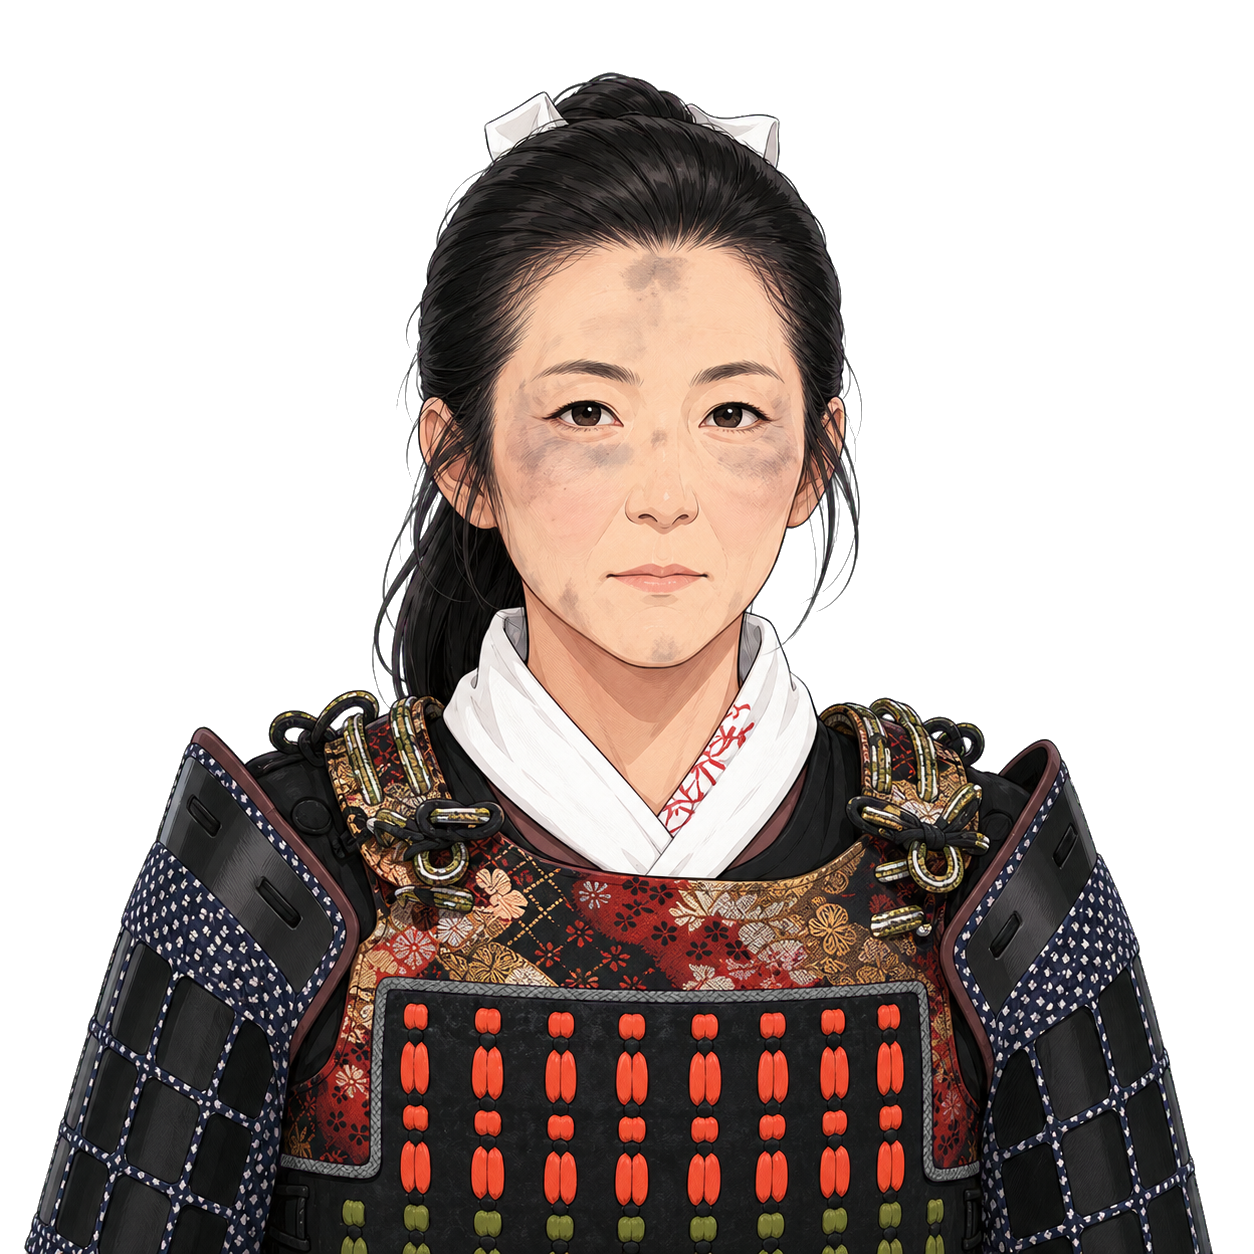
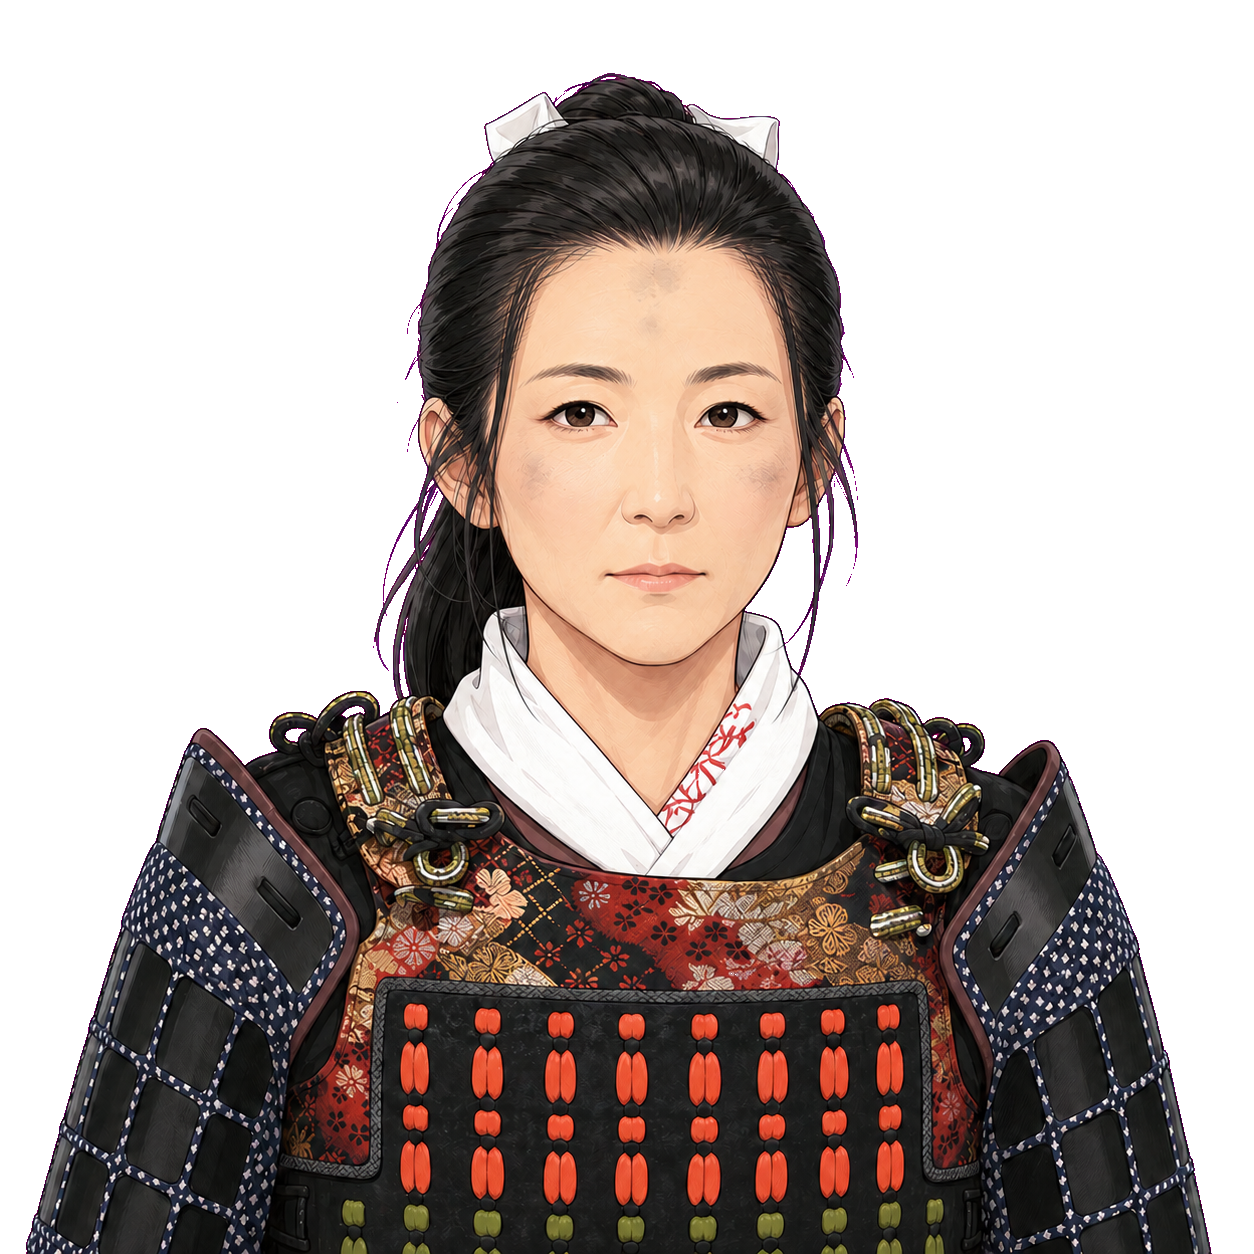
feat: いけの表情と甲冑ビジュアルを調整

diff --git a/prototype/game.js b/prototype/game.js
@@ -1434,6 +1434,8 @@
   const FACE_IMG = {};
   // オダと同じ制作テンプレートを使う主要人物。将来の表情画像も同じ肩上クロップで表示する。
   const GENERATED_FACE_KINDS = { oda: true, ike: true, michi: true, kancho: true, sakamoto: true, naiki: true, kurono: true };
+  const IKE_ASSET_VERSION = '?v=20260712i2';
+  function characterAssetVersion(kind) { return kind === 'ike' ? IKE_ASSET_VERSION : ''; }
   function getFaceImg(kind, face) {
     var cacheKey = kind + (face ? ':' + face : '');
     if (FACE_IMG[cacheKey] !== undefined) return FACE_IMG[cacheKey];
@@ -1444,9 +1446,9 @@
         FACE_IMG[cacheKey] = getFaceImg(kind, null);
       } else FACE_IMG[cacheKey] = null;
     };
-    img.src = face
+    img.src = (face
       ? 'assets/face/' + kind + '_' + face + '.png'
-      : 'assets/face/' + kind + '.png';
+      : 'assets/face/' + kind + '.png') + characterAssetVersion(kind);
     FACE_IMG[cacheKey] = img;
     return img;
   }
@@ -1592,7 +1594,7 @@
   // 敵バトル絵（assets/enemy/<kind>_battle.png を置くと自動で差し替わる。無い間はもののけ描画）
   const ENEMY_IMG = {};
   // いけの腕試しは ENEMY_DEFS 外のイベント戦なので明示的に読み込む。
-  loadImg('assets/enemy/ike_battle.png', function (i) { ENEMY_IMG.ike = i; });
+  loadImg('assets/enemy/ike_battle.png' + IKE_ASSET_VERSION, function (i) { ENEMY_IMG.ike = i; });
   const MONSTER_KINDS = {};
   Object.keys(ENEMY_DEFS).forEach(function (id) {
     var kind = ENEMY_DEFS[id].kind;
@@ -1669,14 +1671,14 @@
     var img = new Image();
     img.onload = function () { HD_SPRITE[k] = img; sheetContentBox(k, img); };
     img.onerror = function () {};
-    img.src = 'assets/sprites/' + k + '_walk.png';
+    img.src = 'assets/sprites/' + k + '_walk.png' + characterAssetVersion(k);
   });
   // オダといけは専用の4方向走行シートを使用。未読込なら drawActor が歩行シートへ戻る。
   ['oda', 'ike'].forEach(function (k) {
     var img = new Image();
     img.onload = function () { HD_RUN_SPRITE[k] = img; sheetContentBox(k, img, HD_RUN_SPRITE_BOX); };
     img.onerror = function () {};
-    img.src = 'assets/sprites/' + k + '_run.png';
+    img.src = 'assets/sprites/' + k + '_run.png' + characterAssetVersion(k);
   });
   // 地面テクスチャ → 敷き詰めパターン（元画像を 8×8 タイル分に縮小してリピート。元ファイルは縮小保存しない）
   const HD_PAT = {};

diff --git a/prototype/index.html b/prototype/index.html
@@ -8,7 +8,7 @@
 <link rel="apple-touch-icon" href="apple-touch-icon.png">
 <link rel="manifest" href="manifest.json">
 <meta name="theme-color" content="#1a1b2e">
-<link rel="stylesheet" href="style.css?v=20260711p29">
+<link rel="stylesheet" href="style.css?v=20260712p30">
 </head>
 <body>
 <div id="app">
@@ -33,8 +33,8 @@
     </div>
   </div>
 </div>
-<script src="dialogue.js?v=20260711p29"></script>
-<script src="maps.js?v=20260711p29"></script>
-<script src="game.js?v=20260711p29"></script>
+<script src="dialogue.js?v=20260712p30"></script>
+<script src="maps.js?v=20260712p30"></script>
+<script src="game.js?v=20260712p30"></script>
 </body>
 </html>

diff --git a/docs/asset_prompts.md b/docs/asset_prompts.md
@@ -187,7 +187,7 @@ ChatGPT の画像生成に、そのまま貼り付けて使うプロンプト集
 ## キャラ別指定（上のテンプレートに貼り込む）
 
 - **オダ**（記念館職員）: 黒髪を低い位置で結び、丸みのある黒縁眼鏡。青白ストライプのゆったりしたシャツ、青いネックストラップと白い名札、ベージュのワイドパンツ。ヘッドセットマイクとエプロンは付けない。真面目で一生懸命な雰囲気。ベース絵のポーズは紺の資料ファイルを胸に抱えて前を見つめる
-- **いけ**（池田輝政）: **写真の役者の見たまま**の顔立ち、年齢感、体格、髪型を保つ。黒髪を後ろで結び白い髪飾り、頬の舞台メイクの線。舞台写真どおりの黒を基調とした具足、赤・緑・白の威し、胸元の金襴、白い襟元と腰帯、黒い袴・脚絆。ヘッドセットマイクは外し、刀は差さず手にも持たせない。若い男性武者や汎用武将へ置き換えない。会話絵は `neutral / serious / angry / happy（大きな笑顔） / surprised` の5表情。歩行・走行・戦闘でも髪飾り、頬の線、白い腰帯を維持する
+- **いけ**（池田輝政）: **写真の役者の見たまま**の顔立ち、年齢感、体格、髪型を保つ。顔は正面の黒衣プロフィール写真を最優先とし、白衣写真は自然な笑顔の補助資料にする。大人の年齢感とやや縦長の卵形輪郭を保ち、澄んだ目、明るい肌、控えめな頬・唇の色で「少しだけ華」を足す。通常顔は微笑ませず、眉・目線・口元を引き締めた「静かに腹が据わっている」勇ましさを基準にする。黒髪を後ろで結び白い髪飾り、頬と額の舞台メイクは薄く残す。舞台写真どおりの黒を基調とした具足、赤・緑・白の威し、胸元の金襴、白い襟元と腰帯、黒い袴・脚絆。ヘッドセットマイクは外し、刀は差さず手にも持たせない。若い男性武者や汎用武将へ置き換えない。甲冑は板・威糸・布の接続を整理し、過剰な反復や微細ノイズ、光沢を避けて手描き感を優先する。会話絵は `neutral / serious / angry / happy / surprised` の5表情。歩行・走行・戦闘でも髪飾り、薄い頬の線、白い腰帯と少し勇ましい目線を維持する
 - **みち**（森長可）: 戦国の荒武者。深緑〜黒の陣羽織、たくましい体格。豪快で不敵な笑み。ベース絵のポーズは肩に大身槍「人間無骨」を担ぐ
 - **館長**: 歴史記念館の館長。ジャケット姿（写真の服装に寄せてよい）。穏やかで人の良い表情。ベース絵のポーズは展示資料を手に微笑む
 - **踊り子**: 白い着物に赤い帯、長い黒髪、金の扇。※顔ウィンドウと歩行ドットのみ生成

diff --git a/docs/CHARACTER_VISUAL_WORKFLOW.md b/docs/CHARACTER_VISUAL_WORKFLOW.md
@@ -261,6 +261,9 @@ python scripts/repack_sprite_sheet.py <透過前シート.png> \
 - 外すもの: ヘッドセットマイク。刀は差さず、手にも持たせない。
 - 会話5表情: `neutral`、大きく笑う `happy`、役柄らしい `angry`、張り詰めた `serious`、自然に目と口を開く `surprised`。
 - 必須納品: `ike_full.png`、`ike.png`（neutral互換）、上記5表情、`ike_walk.png`、`ike_run.png`、`ike_battle.png`。
+- 顔の基準は正面の黒衣プロフィール写真を最優先とし、白衣写真は笑顔と親しみやすさの補助に使う。年齢を若返らせず、輪郭・目・鼻・口の本人性を保つ。
+- 「華」は澄んだ目、健康的な明るさ、控えめな頬・唇の色に限定する。通常顔は微笑ませず、静かな覚悟と少しの勇ましさを眉・目線・口元で示す。
+- 甲冑は舞台衣装の配色と構造を維持しつつ、威糸の過剰な反復、粒状ノイズ、プラスチック状の光沢を避け、板・布・金襴の素材差が読める手描き表現にする。
 - 歩行・走行・戦闘の全画像で、具足の配色、白い髪飾り、頬の線、白い腰帯を省略しない。刀とヘッドセットは全画像で描かない。
 
 ほかの人物を始めるときは、先にこのファイルの「制作前ヒアリング」と「仕様記録テンプレート」を埋める。
